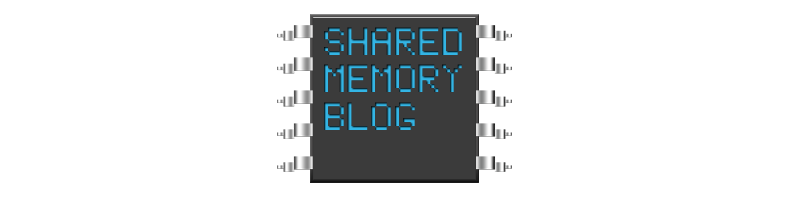
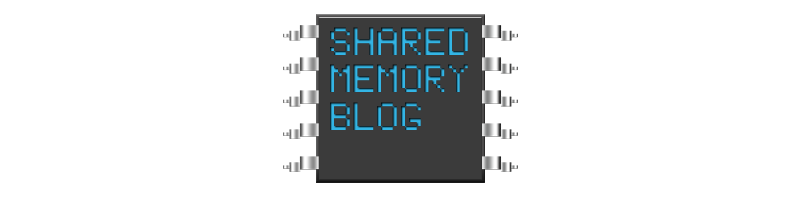
css

Changed region(s): [[0.3346, 0.0609, 0.6692, 0.9442]]

diff --git a/style.css b/style.css
@@ -441,6 +441,7 @@ a:active {
 	cursor: pointer;
 }
 
+/*
 @media screen and (max-width: 600px) {
 	.menu-toggle,
 	.main-navigation.toggled .nav-menu {
@@ -451,6 +452,7 @@ a:active {
 		display: none;
 	}
 }
+*/
 
 
 /* =Content
@@ -622,55 +624,29 @@ Layout: Sidebar-Content
 	float: left;
 	overflow: hidden;
 	width: 25%;
+	max-width:380px;
 }
 .site-footer {
 	clear: both;
 	width: 100%;
 }
 
-
 /*
----------------------- HEADER -----------------------
+---------------General----------------
 */
 
+body {
+	min-width:800px;
 /*
-.site-header {
-	background-color: #191a20;
+	background-color: #313131;
+*/
 }
 
-.site-branding {
-	height: 240px;
+.widget-area > *, .site-content > *{
+	margin-top: 30px;
 }
-
-.main-navigation {
-	height: 50px;
-	background-color: #1c1e31;
-}
-
-.menu {
-	margin:0px auto;
-	display:table;
-}
-
-ul.nav-menu {
-	display:table-row;
-}
-
-ul.nav-menu li:first-child {
-	border-left:thick solid #0099cc;
-}
-
-ul.nav-menu li {
-	height: 50px;
-	float:left;
-	margin: 0;
-	border-right:thick solid #0099cc;
-	display:table-cell;
-}
-
-ul.nav-menu li a {
-
-}
+/*
+---------------------- HEADER -----------------------
 */
 
 
@@ -678,22 +654,45 @@ ul.nav-menu li a {
 	background-color: #313131;
 }
 
+
 .site-branding {
+	width: 100%;
 	height: 240px;
 }
+
+
+.site-branding > a {
+	display: block;
+	height:197px;
+	width:789px;
+	margin:22px auto;
+	float:clear;
+}
+
+
+
+
+/*
+Deplacer le logo a droite pour qu'il soit centré
+*/
+img.smb-logo {
+
+}
+
 
 
 /*
 	http://matthewjamestaylor.com/blog/beautiful-css-centered-menus-no-hacks-full-cross-browser-support
 */
-
 .main-navigation {
 	height: 50px;
-	background-color: #1c1e31;
+	background-color: #313131;
 	float:left;
 	width:100%;
 	position:relative;
 	overflow:hidden;
+	border-bottom:4px solid #5DC4EA;
+	border-top:4px solid #5DC4EA;
 }
 
 ul.nav-menu {
@@ -708,16 +707,87 @@ ul.nav-menu {
 }
 
 ul.nav-menu li:first-child {
-	border-left:thick solid #0099cc;
+	border-left:thick solid #5DC4EA;
 }
 
 ul.nav-menu li {
-	border-right:thick solid #0099cc;
+	border-right:thick solid #5DC4EA;
 	height: 50px;
 	display:block;
 	float:left;
 	margin:0;
-	padding:0;
+	padding:0px 15px;
 	position:relative;
 	right:50%;
-=}
+	text-align: center;
+}
+
+/*
+* https://github.com/theleagueof/league-gothic
+* http://www.dafont.com/abstract.font?fpp=50&text=ACCUEIL
+*/
+
+ul.nav-menu li a {
+	text-transform: uppercase;
+	font-family: 'Roboto', sans-serif;
+	font-size: 130%;
+	font-weight: bold;
+	color:#FFFFFF;
+	line-height: 50px;
+	vertical-align: middle;
+}
+
+
+/*
+---------------------------------- SIDEBAR -----------------------------------
+*/
+.widget-area > * {
+	margin-left:20px;
+}
+.widget-area {
+	background-color: #313131;
+	height: 100%;
+}
+
+.search-field {
+	width: 85%;
+}
+
+
+
+
+
+
+
+
+/*
+-------------------------------- CONTENT ---------------------------------------
+*/
+
+.site-content {
+	padding-left: 4%;
+/*
+	background-color: #FFFFFF;
+*/
+}
+
+
+
+
+
+
+
+
+
+
+
+
+
+
+/*
+-------------------------- FOOTER -----------------------------------------
+*/
+
+.site-footer {
+	background-color: #313131;
+}

diff --git a/header.php b/header.php
@@ -14,6 +14,7 @@
 <title><?php wp_title( '|', true, 'right' ); ?></title>
 <link rel="profile" href="http://gmpg.org/xfn/11">
 <link rel="pingback" href="<?php bloginfo( 'pingback_url' ); ?>">
+<link href='http://fonts.googleapis.com/css?family=Roboto' rel='stylesheet' type='text/css'>
 
 <?php wp_head(); ?>
 </head>
@@ -23,8 +24,12 @@
 	<?php do_action( 'before' ); ?>
 	<header id="masthead" class="site-header" role="banner">
 		<div class="site-branding">
-			<h1 class="site-title"><a href="<?php echo esc_url( home_url( '/' ) ); ?>" title="<?php echo esc_attr( get_bloginfo( 'name', 'display' ) ); ?>" rel="home"><?php bloginfo( 'name' ); ?></a></h1>
+		<!--	<h1 class="site-title"><a href="<?php echo esc_url( home_url( '/' ) ); ?>" title="<?php echo esc_attr( get_bloginfo( 'name', 'display' ) ); ?>" rel="home"><?php bloginfo( 'name' ); ?></a></h1>
 			<h2 class="site-description"><?php bloginfo( 'description' ); ?></h2>
+		-->
+		<a href="<?php echo esc_url( home_url( '/' ) ); ?>" title="<?php echo esc_attr( get_bloginfo( 'name', 'display' ) ); ?>" rel="home">
+			<img class="smb-logo" width="789" height="197" alt="Shared Memory Blog logo" src="<?php bloginfo('template_directory'); ?>/images/Bannière - V1.png"/>
+		</a>
 		</div>
 
 		<nav id="site-navigation" class="main-navigation" role="navigation">
